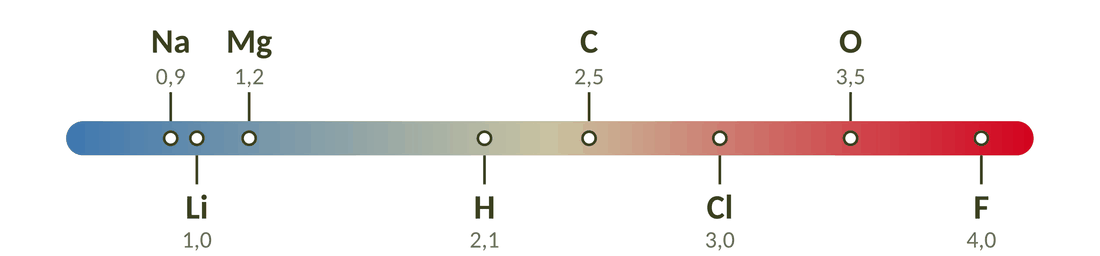
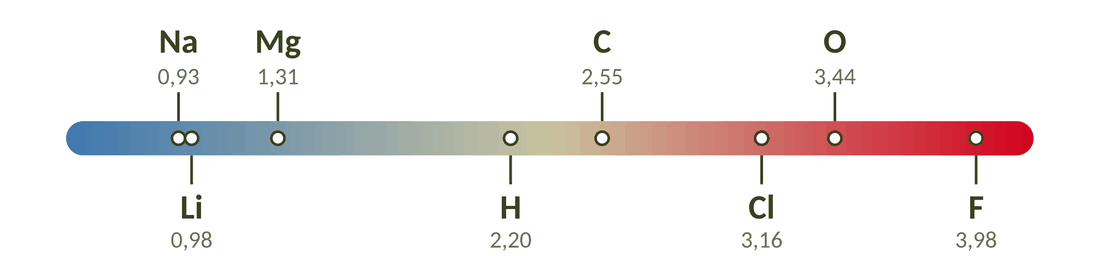
K1.2 Bindungen: Lernseite mit PSE-Folien (Metall/Nichtmetall, Außenelektronen, 3 Schritte, polar/unpolar), EN-Werte laut Trauner
Claude-Session: https://claude.ai/code/session_016xtSqSa7HSqYNztJjjnwtc

diff --git a/2ab-nawi/k1-2-bindungen/theorie.html b/2ab-nawi/k1-2-bindungen/theorie.html
@@ -84,7 +84,7 @@ tr:last-child th, tr:last-child td { border-bottom: 0; }
 </header>
 <nav class="toc" aria-label="Inhalt"><div><a href="#einstieg">Einstieg</a><a href="#teil1">Teil 1</a><a href="#teil2">Teil 2</a><a href="#teil3">Teil 3</a><a href="#teil4">Teil 4</a><a href="#teil5">Teil 5</a><a href="#ueberblick">Überblick</a><a href="#weiter">Aufgaben</a></div></nav>
 <main>
-<section class="part" id="einstieg"><div class="band"><div class="eyebrow">Einstieg</div><h2>Worum geht es?</h2></div><article class="slide" id="f2"><div class="slidehead"><h3>Vier Stoffe – vier Rätsel</h3></div><div class="tiles"><div class="tile"><h4>Kochsalz</h4><p>Warum zerspringt ein Salzkristall unter dem Hammer?</p></div><div class="tile"><h4>Schutzweste</h4><p>Warum hält eine Kunststofffaser Splitter auf?</p></div><div class="tile"><h4>Stahl</h4><p>Warum lässt sich Stahl schmieden und biegen?</p></div><div class="tile"><h4>Wasser</h4><p>Warum schwimmt Eis – und warum platzt die volle Feldflasche im Frost?</p></div></div></article><article class="slide" id="f3"><div class="slidehead"><h3>Das kannst du nach dieser Einheit</h3></div><div class="tiles"><div class="tile"><p>erklären, <strong>warum sich Atome verbinden</strong> – und wie Ionen-, Atom- und Metallbindung entstehen</p></div><div class="tile"><p>mit dem PSE <strong>bestimmen, welche Bindung</strong> in einem Stoff vorliegt</p></div><div class="tile"><p>aus der Bindung <strong>Eigenschaften ableiten</strong>: Warum Salz zerspringt, Stahl sich biegt und Eis schwimmt</p></div><div class="tile"><p>Bindungen <strong>im eigenen Körper und in deiner Ausrüstung</strong> wiederfinden: Nerven, Blut, DNA, Funktionsshirt</p></div></div></article></section><section class="part" id="teil1"><div class="band"><div class="eyebrow">Teil 1 · Buch S. 20</div><h2>Warum verbinden sich Atome?</h2></div><article class="slide" id="f5"><div class="slidehead"><h3>Ziel: der Edelgaszustand</h3><span class="pill">Buch S. 20</span></div><figure class="fig"><img src="img/s05_1.png" width="1100" height="370" loading="lazy" alt="Ziel: der Edelgaszustand"></figure><div class="tiles"><div class="tile"><p><strong>Oktettregel: </strong>Atome streben 8 Außenelektronen an (voll besetzte Außenschale). Dieser Zustand ist energiearm und besonders stabil.</p></div></div></article><article class="slide" id="f6"><div class="slidehead"><h3>Elektronegativität (EN)</h3><span class="pill">Buch S. 20</span></div><p>Maß dafür, wie stark ein Atom Elektronen an sich zieht – im PSE ablesbar.</p><figure class="fig"><img src="img/s06_2.png" width="1100" height="256" loading="lazy" alt="Elektronegativität (EN)"></figure><div class="tiles"><div class="tile"><p><strong>Metalle: </strong>wenige Außenelektronen → geben sie ab → elektropositiv</p></div></div><div class="tiles"><div class="tile"><p><strong>Nichtmetalle: </strong>viele Außenelektronen → nehmen auf → elektronegativ</p></div></div></article><article class="slide" id="f7"><div class="slidehead"><h3>Die drei Bindungsarten</h3><span class="pill">Buch S. 20</span></div><div class="tiles"><div class="tile"><h4>Ionenbindung</h4><p><strong>Metall + Nichtmetall</strong></p><p>↓</p><p><strong>Salze</strong></p><p>z. B. Kochsalz NaCl</p></div><div class="tile"><h4>Atombindung</h4><p><strong>Nichtmetall-Atome</strong></p><p>↓</p><p><strong>Moleküle</strong></p><p>z. B. H₂O, Cl₂</p></div><div class="tile"><h4>Metallbindung</h4><p><strong>Metall-Atome</strong></p><p>↓</p><p><strong>Metalle, Legierungen</strong></p><p>z. B. Eisen, Bronze</p></div></div><div class="tiles"><div class="tile"><p><strong>Faustregel ΔEN: </strong>über 1,7 → Ionenbindung · 0,4 bis 1,7 → polare Atombindung · unter 0,4 → unpolare Atombindung</p></div></div></article></section><section class="part" id="teil2"><div class="band"><div class="eyebrow">Teil 2 · Buch S. 21</div><h2>Die Ionenbindung</h2></div><article class="slide" id="f9"><div class="slidehead"><h3>So entsteht eine Ionenbindung</h3><span class="pill">Buch S. 21</span></div><figure class="fig"><img src="img/s09_3.png" width="1100" height="332" loading="lazy" alt="So entsteht eine Ionenbindung"></figure><figure class="fig anim"><img src="img/s09_4.gif" width="1100" height="440" loading="lazy" alt="So entsteht eine Ionenbindung"><figcaption>Animation</figcaption></figure><div class="tiles"><div class="tile"><h4>Metall gibt Elektronen ab</h4><p>→ positiv geladenes Kation</p></div></div><div class="tiles"><div class="tile"><h4>Nichtmetall nimmt Elektronen auf</h4><p>→ negativ geladenes Anion</p></div></div></article><article class="slide" id="f10"><div class="slidehead"><h3>Salze bilden Ionengitter</h3><span class="pill">Buch S. 21</span></div><figure class="fig"><img src="img/s10_5.png" width="1100" height="888" loading="lazy" alt="Salze bilden Ionengitter"></figure><div class="tiles"><div class="tile"><p>Plus und Minus ziehen sich an – in alle Richtungen</p><p>Nach außen <strong>elektrisch neutral</strong></p><p><strong>Hohe Schmelztemperatur</strong> (NaCl: 801 °C)</p><p><strong>Spröde</strong> – zerspringen unter dem Hammer</p><p><strong>Elektrolyte:</strong> leiten Strom nur gelöst oder geschmolzen</p></div></div></article><article class="slide" id="f11"><div class="slidehead"><h3>Warum sind Salze spröde?</h3><span class="pill">Buch S. 21</span></div><figure class="fig"><img src="img/s11_6.png" width="1100" height="370" loading="lazy" alt="Warum sind Salze spröde?"></figure><figure class="fig anim"><img src="img/s11_7.gif" width="1100" height="440" loading="lazy" alt="Warum sind Salze spröde?"><figcaption>Animation</figcaption></figure><div class="tiles"><div class="tile"><p>Ein Schlag verschiebt die Schichten um eine Position – plötzlich liegen gleiche Ladungen übereinander.</p></div></div></article><article class="slide" id="f12"><div class="slidehead"><h3>Salze im Einsatz</h3></div><div class="tiles"><div class="tile"><h4>Marsch &amp; Sport</h4><p>Schweiß enthält Ionen (Na⁺, K⁺, Cl⁻, Mg²⁺). Wer stundenlang schwitzt und nur Wasser trinkt, riskiert Natriummangel.</p></div><div class="tile"><h4>Ökologie</h4><p>Streusalz macht Straßen sicher. Aber Chlorid sickert in den Boden und schädigt Bäume und Gewässer.</p></div><div class="tile"><h4>Wirtschaft</h4><p>Salz war das »weiße Gold«. In Hallstatt wird seit rund 7000 Jahren Salz abgebaut.</p></div></div></article><article class="slide" id="f13"><div class="slidehead"><h3>Salze im Körper</h3><span class="pill">Buch S. 21</span></div><div class="tiles"><div class="tile"><h4>Nerven</h4><p>Jedes Nervensignal beruht auf Na⁺- und K⁺-Ionen, die durch die Zellmembran strömen – auch der Befehl an den Abzugsfinger.</p></div><div class="tile"><h4>Knochen</h4><p>Rund zwei Drittel des Knochens sind ein Ionengitter aus Ca²⁺ und Phosphat – das macht ihn hart. Eiweißfasern machen ihn elastisch.</p></div><div class="tile"><h4>Sanitäter</h4><p>Infusion mit 0,9 % Kochsalzlösung: gleich viel Salz wie im Blut (»isotonisch«). Isotonische Sportgetränke folgen demselben Prinzip.</p></div></div></article></section><section class="part" id="teil3"><div class="band"><div class="eyebrow">Teil 3 · Buch S. 22–24</div><h2>Die Atombindung</h2></div><article class="slide" id="f15"><div class="slidehead"><h3>Atome teilen Elektronen</h3><span class="pill">Buch S. 22</span></div><div class="tiles"><div class="tile"><h4>Bindung zwischen Nichtmetallen</h4><p>Zwei Atome bilden ein <strong>gemeinsames Elektronenpaar</strong></p><p>Beide erreichen so 8 Außenelektronen</p><p>Es entsteht ein <strong>Molekül</strong></p><p>Beispiele: H₂, Cl₂, H₂O, NH₃, CH₄</p></div></div><figure class="fig"><img src="img/s15_8.png" width="1100" height="648" loading="lazy" alt="Atome teilen Elektronen"></figure></article><article class="slide" id="f16"><div class="slidehead"><h3>Unpolar oder polar?</h3><span class="pill">Buch S. 22</span></div><div class="tiles"><div class="tile"><h4>Unpolar</h4><p>gleiche Atome: Cl₂, H₂, N₂</p><p>gleiche EN → Ladung symmetrisch</p><p>in Wasser schwer löslich (hydrophob)</p></div></div><figure class="fig"><img src="img/s16_9.png" width="1100" height="687" loading="lazy" alt="Unpolar oder polar?"></figure><div class="tiles"><div class="tile"><h4>Polar</h4><p>verschiedene Atome: HCl, H₂O, NH₃</p><p>Teilladungen δ+ und δ–</p><p>in Wasser löslich (hydrophil)</p></div></div></article><article class="slide" id="f17"><div class="slidehead"><h3>Wasser ist ein Dipol</h3><span class="pill">Buch S. 23</span></div><figure class="fig"><img src="img/s17_10.png" width="1100" height="342" loading="lazy" alt="Wasser ist ein Dipol"></figure><div class="tiles"><div class="tile"><p><strong>Dipol: </strong>Molekül mit einer Plus- und einer Minus-Seite. Ob eines entsteht, hängt von den Teilladungen und von der Form ab.</p></div></div></article><article class="slide" id="f18"><div class="slidehead"><h3>Exkurs: σ- und π-Bindungen</h3><span class="tag">OPTIONAL</span><span class="pill">Buch S. 23–24</span></div><figure class="fig"><img src="img/s18_11.png" width="1100" height="342" loading="lazy" alt="Exkurs: σ- und π-Bindungen"></figure><div class="tiles"><div class="tile"><h4>Einfachbindung</h4><p><strong>1 σ   </strong>H–H</p></div></div><div class="tiles"><div class="tile"><h4>Doppelbindung</h4><p><strong>1 σ + 1 π   </strong>O=O</p></div></div><div class="tiles"><div class="tile"><h4>Dreifachbindung</h4><p><strong>1 σ + 2 π   </strong>N≡N</p></div></div></article></section><section class="part" id="teil4"><div class="band"><div class="eyebrow">Teil 4 · Buch S. 25</div><h2>Die Metallbindung</h2></div><article class="slide" id="f20"><div class="slidehead"><h3>Das Elektronengas</h3><span class="pill">Buch S. 25</span></div><figure class="fig"><img src="img/s20_12.png" width="1100" height="815" loading="lazy" alt="Das Elektronengas"></figure><figure class="fig anim"><img src="img/s20_13.gif" width="928" height="688" loading="lazy" alt="Das Elektronengas"><figcaption>Animation</figcaption></figure><div class="tiles"><div class="tile"><p>Metallatome geben ihre wenigen Außenelektronen ab</p><p>Die <strong>Kationen</strong> bilden ein dichtes Metallgitter</p><p>Die Elektronen bewegen sich frei: <strong>Elektronengas</strong></p><p>Das Elektronengas hält das Gitter zusammen</p></div></div></article><article class="slide" id="f21"><div class="slidehead"><h3>Was Metalle können</h3><span class="pill">Buch S. 25</span></div><div class="tiles"><div class="tile"><h4>Hoher Schmelzpunkt</h4><p>Das Gitter ist sehr stabil – Eisen schmilzt erst bei 1538 °C.</p></div><div class="tile"><h4>Elektrische Leiter</h4><p>Freie Elektronen tragen den Strom – Kupfer in Kabeln und Funkgeräten.</p></div><div class="tile"><h4>Verformbar</h4><p>Schichten gleiten übereinander, die Anziehung bleibt – Schmieden, Biegen.</p></div><div class="tile"><h4>Legierungen</h4><p>Stahl = Eisen + Kohlenstoff · Bronze = Kupfer + Zinn · Messing = Kupfer + Zink</p></div></div></article><article class="slide" id="f22"><div class="slidehead"><h3>Metalle im Körper – aber als Ionen</h3><span class="pill">Buch S. 25</span></div><div class="tiles"><div class="tile"><h4>Eisen im Blut</h4><p>Fe²⁺ im Hämoglobin der roten Blutkörperchen bindet den Sauerstoff. Eisenmangel heißt: weniger Sauerstoff im Muskel, schlechtere Ausdauer.</p></div><div class="tile"><h4>Magnesium im Blatt</h4><p>Mg²⁺ sitzt im Zentrum jedes Chlorophyll-Moleküls. Ohne Magnesium keine Photosynthese – und kein Sauerstoff zum Atmen.</p></div></div><div class="tiles"><div class="tile"><p><strong>Merke: </strong>Im Körper gibt es kein Elektronengas. Metalle liegen dort als <strong>Ionen</strong> vor – sie haben ihre Außenelektronen abgegeben (Fe²⁺, Mg²⁺, Ca²⁺, Na⁺).</p></div></div></article></section><section class="part" id="teil5"><div class="band"><div class="eyebrow">Teil 5 · Buch S. 26–27</div><h2>Zwischenmolekulare Kräfte</h2></div><article class="slide" id="f24"><div class="slidehead"><h3>Innerhalb und zwischen Molekülen</h3><span class="pill">Buch S. 26</span></div><figure class="fig"><img src="img/s24_14.png" width="1100" height="660" loading="lazy" alt="Innerhalb und zwischen Molekülen"></figure><div class="tiles"><div class="tile"><h4>Atombindung im Molekül</h4><p>sehr stark</p></div></div><div class="tiles"><div class="tile"><h4>Kraft zwischen Molekülen</h4><p>viel schwächer</p></div></div><div class="tiles"><div class="tile"><h4>Sie bestimmen …</h4><p>Schmelztemperatur</p><p>Siedetemperatur</p><p>Löslichkeit</p></div></div></article><article class="slide" id="f25"><div class="slidehead"><h3>Wasserstoffbrücken</h3><span class="pill">Buch S. 26</span></div><figure class="fig"><img src="img/s25_15.png" width="1100" height="806" loading="lazy" alt="Wasserstoffbrücken"></figure><div class="tiles"><div class="tile"><h4>Entstehen zwischen Dipolen</h4><p>Bedingung: H ist an <strong>O, N oder F</strong> gebunden</p><p>Das δ+ H zieht das δ– O des Nachbarn an</p><p>Über 10-mal schwächer als eine Atombindung</p></div></div></article><article class="slide" id="f26"><div class="slidehead"><h3>Ohne Wasserstoffbrücken kein Leben</h3><span class="pill">Buch S. 26</span></div><div class="tiles"><div class="tile"><h4>100 °C</h4><p>Siedetemperatur von Wasser – das viel größere Hexan siedet schon bei 69 °C.</p></div><div class="tile"><h4>0,92</h4><p>Dichte von Eis in g/cm³ – leichter als Wasser (1,00). Der Teich friert von oben zu, Fische überleben.</p></div><div class="tile"><h4>Haut</h4><p>Oberflächenspannung: Wasserläufer laufen über das Wasser, eine Büroklammer kann schwimmen.</p></div></div></article><article class="slide" id="f27"><div class="slidehead"><h3>Wasserstoffbrücken im Körper</h3><span class="pill">Buch S. 26</span></div><div class="tiles"><div class="tile"><h4>DNA</h4><p>Die zwei Stränge der DNA halten über Wasserstoffbrücken zwischen den Basen zusammen. Fest genug für die Erbinformation – locker genug, um sie wie einen Reißverschluss zu öffnen und zu kopieren.</p></div><div class="tile"><h4>Eiweiße und Hitze</h4><p>Wasserstoffbrücken halten Eiweiße in ihrer Form. Große Hitze bricht sie auf: Das Eiweiß verliert seine Form (Denaturierung). Darum wird das Ei beim Kochen fest – und darum ist ein Hitzschlag beim Marsch lebensgefährlich.</p></div></div></article><article class="slide" id="f28"><div class="slidehead"><h3>Wasserstoffbrücken im Einsatz</h3></div><div class="tiles"><div class="tile"><h4>Schnee essen?</h4><p>Lieber nicht! Beim Schmelzen werden Wasserstoffbrücken aufgebrochen. 1 kg Schnee kostet den Körper fast 500 kJ Wärme.</p></div><div class="tile"><h4>Schutzweste</h4><p>Aramidfasern in Splitterschutzweste und Helm: lange Molekülketten, durch Wasserstoffbrücken verbunden – extrem zugfest.</p></div><div class="tile"><h4>Frost</h4><p>Eis braucht rund 9 % mehr Platz als Wasser: Volle Flaschen platzen, Frost sprengt Gestein.</p></div></div></article><article class="slide" id="f29"><div class="slidehead"><h3>Van-der-Waals-Kräfte</h3><span class="pill">Buch S. 27</span></div><figure class="fig"><img src="img/s29_16.png" width="1100" height="313" loading="lazy" alt="Van-der-Waals-Kräfte"></figure><div class="tiles"><div class="tile"><p><strong>Je größer das Molekül, desto stärker die Van-der-Waals-Kräfte.</strong></p><p>Lang gestreckte Moleküle haften stärker als gleich schwere kugelförmige.</p></div></div></article><article class="slide" id="f30"><div class="slidehead"><h3>Längere Kette, höherer Siedepunkt</h3><span class="pill">Buch S. 27</span></div><div class="tiles"><div class="tile"><h4>Methan</h4><p>CH₄</p><p><strong>–162 °C</strong></p><p>Erdgas</p></div><div class="tile"><h4>Butan</h4><p>C₄H₁₀</p><p><strong>–1 °C</strong></p><p>Feuerzeug, Kocher</p></div><div class="tile"><h4>Octan</h4><p>C₈H₁₈</p><p><strong>126 °C</strong></p><p>Benzin</p></div><div class="tile"><h4>Paraffin</h4><p>C₂₀H₄₂ u. a.</p><p><strong>fest</strong></p><p>Kerzenwachs</p></div></div><p><strong>längere Kette → stärkere Van-der-Waals-Kräfte → höhere Siedetemperatur</strong></p><div class="tiles"><div class="tile"><p><strong>Gecko: </strong>Millionen feinster Härchen haften über Van-der-Waals-Kräfte sogar an Glas.</p></div></div></article><article class="slide" id="f31"><div class="slidehead"><h3>Ähnliches löst sich in Ähnlichem</h3></div><div class="tiles"><div class="tile"><h4>polar + polar</h4><p>Salz und Zucker lösen sich in Wasser.</p></div></div><div class="tiles"><div class="tile"><h4>unpolar + unpolar</h4><p>Fett löst sich in Benzin, Öl mischt sich mit Öl.</p></div></div><div class="tiles"><div class="tile"><h4>polar + unpolar</h4><p>mischen sich nicht: Öl schwimmt auf Wasser.</p></div><div class="tile"><h4>Ökologie: Ölunfall</h4><p>Öl bildet einen Film auf dem Wasser – er hält Sauerstoff ab und verklebt Federn und Kiemen.</p></div></div></article><article class="slide" id="f32"><div class="slidehead"><h3>Nass oder trocken? Funktionsbekleidung</h3><span class="pill">Buch S. 26–27</span></div><div class="tiles"><div class="tile"><h4>Baumwolle</h4><p>viele polare OH-Gruppen</p><p>bindet Wasser über Wasserstoffbrücken</p><p>saugt sich voll, trocknet langsam, kühlt aus</p></div></div><div class="tiles"><div class="tile"><h4>Polyester (Funktionsshirt)</h4><p>kaum polar – wassermeidend</p><p>Schweiß wird nach außen geleitet</p><p>bleibt fast trocken, trocknet schnell</p></div><div class="tile"><h4>Imprägnierung: Zelt, Regenjacke, Stiefel</h4><p>Eine unpolare Schicht (Wachs, Silikon) stößt das polare Wasser ab – die Tropfen bleiben rund und perlen ab.</p></div></div></article></section><section class="part" id="ueberblick"><div class="band"><div class="eyebrow">Überblick</div><h2>Zusammenfassung</h2></div><article class="slide" id="f33"><div class="slidehead"><h3>Alles auf einen Blick</h3></div><div class="tablewrap"><table><thead><tr><th>Bindung</th><th>Wo / was?</th><th>Stärke</th></tr></thead><tbody><tr><th scope=row>Metallbindung</th><td>Kationen + Elektronengas</td><td>echt · sehr stark</td></tr><tr><th scope=row>Ionenbindung</th><td>Ionengitter (Salze)</td><td>echt · stark</td></tr><tr><th scope=row>Atombindung</th><td>Moleküle</td><td>echt · stark</td></tr><tr><th scope=row>Wasserstoffbrücken</th><td>H an O, N, F</td><td>zwischen Molekülen · schwach</td></tr><tr><th scope=row>Van-der-Waals-Kräfte</th><td>alle Moleküle</td><td>zwischen Molekülen · sehr schwach</td></tr></tbody></table></div></article><article class="slide" id="f34"><div class="slidehead"><h3>Fachbegriffe (1/2)</h3></div><div class="tablewrap"><table><thead><tr><th>Begriff</th><th>Bedeutung</th></tr></thead><tbody><tr><th scope=row>Edelgaskonfiguration</th><td>voll besetzte Außenschale – energiearm und stabil</td></tr><tr><th scope=row>Oktettregel</th><td>Atome streben 8 Außenelektronen an</td></tr><tr><th scope=row>Elektronegativität (EN)</th><td>wie stark ein Atom Elektronen anzieht</td></tr><tr><th scope=row>Ion</th><td>geladenes Teilchen: Atom hat e⁻ abgegeben oder aufgenommen</td></tr><tr><th scope=row>Kation / Anion</th><td>positiv geladenes Ion / negativ geladenes Ion</td></tr><tr><th scope=row>Ionengitter</th><td>regelmäßige Anordnung von Kationen und Anionen im Salz</td></tr><tr><th scope=row>Elektrolyt</th><td>Stoff, der gelöst oder geschmolzen Strom leitet</td></tr><tr><th scope=row>Molekül</th><td>Teilchen aus Atomen, die durch Atombindungen verbunden sind</td></tr><tr><th scope=row>Elektronenpaar</th><td>zwei Elektronen, die zwei Atome gemeinsam nutzen</td></tr><tr><th scope=row>polar / unpolar</th><td>Ladung im Molekül ungleich / gleich verteilt</td></tr></tbody></table></div></article><article class="slide" id="f35"><div class="slidehead"><h3>Fachbegriffe (2/2)</h3></div><div class="tablewrap"><table><thead><tr><th>Begriff</th><th>Bedeutung</th></tr></thead><tbody><tr><th scope=row>Dipol</th><td>Molekül mit einer Plus- und einer Minus-Seite</td></tr><tr><th scope=row>δ+ / δ–</th><td>Teilladung (»delta«): schwach positiv / schwach negativ</td></tr><tr><th scope=row>Elektronengas</th><td>frei bewegliche Elektronen zwischen Metall-Kationen</td></tr><tr><th scope=row>Legierung</th><td>Gemisch aus Metallen (z. B. Bronze = Kupfer + Zinn)</td></tr><tr><th scope=row>Wasserstoffbrücke</th><td>Anziehung: δ+ H an δ– O, N oder F des Nachbarmoleküls</td></tr><tr><th scope=row>Van-der-Waals-Kraft</th><td>schwache Anziehung durch kurzzeitige Dipole</td></tr><tr><th scope=row>hydrophil / hydrophob</th><td>wasserliebend (löslich) / wassermeidend (schwer löslich)</td></tr><tr><th scope=row>Dichteanomalie</th><td>Eis ist leichter als flüssiges Wasser – es schwimmt</td></tr><tr><th scope=row>isotonisch</th><td>gleiche Salzkonzentration wie im Blut (z. B. 0,9 % Kochsalzlösung)</td></tr><tr><th scope=row>Denaturierung</th><td>Eiweiß verliert durch Hitze seine Form (H-Brücken brechen)</td></tr></tbody></table></div></article></section>
+<section class="part" id="einstieg"><div class="band"><div class="eyebrow">Einstieg</div><h2>Worum geht es?</h2></div><article class="slide" id="f2"><div class="slidehead"><h3>Vier Stoffe – vier Rätsel</h3></div><div class="tiles"><div class="tile"><h4>Kochsalz</h4><p>Warum zerspringt ein Salzkristall unter dem Hammer?</p></div><div class="tile"><h4>Schutzweste</h4><p>Warum hält eine Kunststofffaser Splitter auf?</p></div><div class="tile"><h4>Stahl</h4><p>Warum lässt sich Stahl schmieden und biegen?</p></div><div class="tile"><h4>Wasser</h4><p>Warum schwimmt Eis – und warum platzt die volle Feldflasche im Frost?</p></div></div></article><article class="slide" id="f3"><div class="slidehead"><h3>Das kannst du nach dieser Einheit</h3></div><div class="tiles"><div class="tile"><p>erklären, <strong>warum sich Atome verbinden</strong> – und wie Ionen-, Atom- und Metallbindung entstehen</p></div><div class="tile"><p>mit dem PSE <strong>bestimmen, welche Bindung</strong> in einem Stoff vorliegt</p></div><div class="tile"><p>aus der Bindung <strong>Eigenschaften ableiten</strong>: Warum Salz zerspringt, Stahl sich biegt und Eis schwimmt</p></div><div class="tile"><p>Bindungen <strong>im eigenen Körper und in deiner Ausrüstung</strong> wiederfinden: Nerven, Blut, DNA, Funktionsshirt</p></div></div></article></section><section class="part" id="teil1"><div class="band"><div class="eyebrow">Teil 1 · Buch S. 20</div><h2>Warum verbinden sich Atome?</h2></div><article class="slide" id="f5"><div class="slidehead"><h3>Ziel: der Edelgaszustand</h3><span class="pill">Buch S. 20</span></div><figure class="fig"><img src="img/s05_1.png" width="1100" height="370" loading="lazy" alt="Ziel: der Edelgaszustand"></figure><div class="tiles"><div class="tile"><p><strong>Oktettregel: </strong>Atome streben 8 Außenelektronen an (voll besetzte Außenschale). Dieser Zustand ist energiearm und besonders stabil.</p></div></div></article><article class="slide" id="f6"><div class="slidehead"><h3>Elektronegativität (EN)</h3><span class="pill">Buch S. 20</span></div><p>Maß dafür, wie stark ein Atom Elektronen an sich zieht – im PSE ablesbar.</p><figure class="fig"><img src="img/s06_2.png" width="1100" height="256" loading="lazy" alt="Elektronegativität (EN)"></figure><div class="tiles"><div class="tile"><p><strong>Metalle: </strong>wenige Außenelektronen → geben sie ab → elektropositiv</p></div></div><div class="tiles"><div class="tile"><p><strong>Nichtmetalle: </strong>viele Außenelektronen → nehmen auf → elektronegativ</p></div></div></article><article class="slide" id="f7"><div class="slidehead"><h3>Metall oder Nichtmetall?</h3><span class="pill">PSE im Buch</span></div><div class="tiles"><div class="tile"><h4>I</h4><p><strong>H</strong></p></div><div class="tile"><h4>II</h4><p>4</p></div><div class="tile"><h4>III</h4><p>5</p></div><div class="tile"><h4>IV</h4><p>6</p></div><div class="tile"><h4>V</h4><p>7</p></div><div class="tile"><h4>VI</h4><p>8</p></div><div class="tile"><h4>VII</h4><p>9</p></div><div class="tile"><h4>VIII</h4><p><strong>He</strong></p></div></div><div class="tiles"><div class="tile"><h4>Metall</h4><p>Li, Na, Mg, Al</p></div><div class="tile"><h4>1</h4><p>3</p></div><div class="tile"><h4>2</h4><p>10</p></div></div><div class="tiles"><div class="tile"><h4>Halbmetall</h4><p>B, Si</p></div><div class="tile"><h4>Li</h4><p><strong>Na</strong></p></div><div class="tile"><h4>Be</h4><p><strong>Mg</strong></p></div><div class="tile"><h4>B</h4><p><strong>Al</strong></p></div><div class="tile"><h4>C</h4><p><strong>Si</strong></p></div><div class="tile"><h4>N</h4><p><strong>P</strong></p></div><div class="tile"><h4>O</h4><p><strong>S</strong></p></div><div class="tile"><h4>F</h4><p><strong>Cl</strong></p></div><div class="tile"><h4>Ne</h4><p><strong>Ar</strong></p></div></div><div class="tiles"><div class="tile"><h4>Nichtmetall</h4><p>C, N, O, Cl …</p></div><div class="tile"><h4>11</h4><p><strong>Merke: </strong>Links und unten Metalle, rechts oben Nichtmetalle. Die gelbe »Treppe« der Halbmetalle trennt sie.</p></div></div><p>12</p><p>13</p><p>14</p><p>15</p><p>16</p><p>17</p><p>18</p><div class="tiles"><div class="tile"><p><strong>Achtung H: </strong>steht links, ist aber grün – ein Nichtmetall! HCl ist darum keine Ionenbindung.</p></div></div></article><article class="slide" id="f8"><div class="slidehead"><h3>Wie viele Außenelektronen?</h3><span class="pill">Buch S. 20–21</span></div><div class="tiles"><div class="tile"><h4>I</h4><p><strong>H</strong></p></div><div class="tile"><h4>II</h4><p><strong>Be</strong></p></div><div class="tile"><h4>III</h4><p><strong>B</strong></p></div><div class="tile"><h4>IV</h4><p><strong>C</strong></p></div><div class="tile"><h4>V</h4><p><strong>N</strong></p></div><div class="tile"><h4>VI</h4><p><strong>O</strong></p></div><div class="tile"><h4>VII</h4><p><strong>F</strong></p></div><div class="tile"><h4>VIII</h4><p><strong>He</strong></p></div><div class="tile"><h4>1</h4><p><strong>Li</strong></p></div><div class="tile"><h4>2</h4><p><strong>Ne</strong></p></div><div class="tile"><h4>3</h4><p><strong>Na</strong></p></div><div class="tile"><h4>4</h4><p><strong>Mg</strong></p></div><div class="tile"><h4>5</h4><p><strong>Al</strong></p></div><div class="tile"><h4>6</h4><p><strong>Si</strong></p></div><div class="tile"><h4>7</h4><p><strong>P</strong></p></div><div class="tile"><h4>8</h4><p><strong>S</strong></p></div><div class="tile"><h4>9</h4><p><strong>Cl</strong></p></div><div class="tile"><h4>10</h4><p><strong>Ar</strong></p></div><div class="tile"><h4>11</h4><p><strong>1 e⁻</strong></p></div><div class="tile"><h4>12</h4><p><strong>2 e⁻</strong></p></div><div class="tile"><h4>13</h4><p><strong>3 e⁻</strong></p></div><div class="tile"><h4>14</h4><p><strong>4 e⁻</strong></p></div><div class="tile"><h4>15</h4><p><strong>5 e⁻</strong></p></div><div class="tile"><h4>16</h4><p><strong>6 e⁻</strong></p></div><div class="tile"><h4>17</h4><p><strong>7 e⁻</strong></p></div><div class="tile"><h4>18</h4><p><strong>8 e⁻</strong></p></div><div class="tile"><h4>Na⁺</h4><p><strong>I–III: wenige → abgeben</strong></p><p>positive Ionen (Kationen)</p></div></div><p><strong>Mg²⁺</strong></p><p><strong>Al³⁺</strong></p><p><strong>–</strong></p><div class="tiles"><div class="tile"><h4>N³⁻</h4><p><strong>V–VII: viele → aufnehmen</strong></p><p>negative Ionen (Anionen)</p></div></div><p><strong>O²⁻</strong></p><p><strong>Cl⁻</strong></p><div class="tiles"><div class="tile"><h4>–</h4><p><strong>VIII: voll</strong></p><p>Edelgas</p></div></div></article><article class="slide" id="f9"><div class="slidehead"><h3>Die drei Bindungsarten</h3><span class="pill">Buch S. 20</span></div><div class="tiles"><div class="tile"><h4>Ionenbindung</h4><p><strong>Metall + Nichtmetall</strong></p><p>↓</p><p><strong>Salze</strong></p><p>z. B. Kochsalz NaCl</p></div><div class="tile"><h4>Atombindung</h4><p><strong>Nichtmetall-Atome</strong></p><p>↓</p><p><strong>Moleküle</strong></p><p>z. B. H₂O, Cl₂</p></div><div class="tile"><h4>Metallbindung</h4><p><strong>Metall-Atome</strong></p><p>↓</p><p><strong>Metalle, Legierungen</strong></p><p>z. B. Eisen, Bronze</p></div></div><div class="tiles"><div class="tile"><p><strong>Faustregel ΔEN: </strong>über 1,7 → Ionenbindung · 0,4 bis 1,7 → polare Atombindung · unter 0,4 → unpolare Atombindung</p></div></div></article><article class="slide" id="f10"><div class="slidehead"><h3>In 3 Schritten zur Bindungsart</h3><span class="pill">Buch S. 20–22</span></div><div class="tiles"><div class="tile"><h4>1  Farbe im PSE ansehen</h4><p>Metall (blau) oder Nichtmetall (grün)?</p></div></div><div class="tiles"><div class="tile"><h4>2  beide blau</h4><p>→ Metallbindung</p></div></div><div class="tiles"><div class="tile"><h4>2  blau + grün</h4><p>→ Ionenbindung (Salz)</p></div></div><div class="tiles"><div class="tile"><h4>2  beide grün</h4><p>→ Atombindung (Molekül)</p></div></div><div class="tiles"><div class="tile"><h4>Beispiele</h4><p>NaCl: blau + grün → Ionenbindung</p><p>Fe: nur blau → Metallbindung</p><p>Cl₂: grün, gleich → unpolar · H₂O: grün, ΔEN 1,24 → polar</p></div></div><div class="tiles"><div class="tile"><h4>3  EN-Unterschied rechnen</h4><p>größere minus kleinere EN</p></div></div><div class="tiles"><div class="tile"><h4>unter 0,4</h4><p><strong>unpolar</strong></p></div></div><div class="tiles"><div class="tile"><h4>0,4 bis 1,7</h4><p><strong>polar δ+ δ–</strong></p></div></div></article></section><section class="part" id="teil2"><div class="band"><div class="eyebrow">Teil 2 · Buch S. 21</div><h2>Die Ionenbindung</h2></div><article class="slide" id="f12"><div class="slidehead"><h3>So entsteht eine Ionenbindung</h3><span class="pill">Buch S. 21</span></div><figure class="fig"><img src="img/s12_3.png" width="1100" height="332" loading="lazy" alt="So entsteht eine Ionenbindung"></figure><figure class="fig anim"><img src="img/s12_4.gif" width="1100" height="440" loading="lazy" alt="So entsteht eine Ionenbindung"><figcaption>Animation</figcaption></figure><div class="tiles"><div class="tile"><h4>Metall gibt Elektronen ab</h4><p>→ positiv geladenes Kation</p></div></div><div class="tiles"><div class="tile"><h4>Nichtmetall nimmt Elektronen auf</h4><p>→ negativ geladenes Anion</p></div></div></article><article class="slide" id="f13"><div class="slidehead"><h3>Salze bilden Ionengitter</h3><span class="pill">Buch S. 21</span></div><figure class="fig"><img src="img/s13_5.png" width="1100" height="888" loading="lazy" alt="Salze bilden Ionengitter"></figure><div class="tiles"><div class="tile"><p>Plus und Minus ziehen sich an – in alle Richtungen</p><p>Nach außen <strong>elektrisch neutral</strong></p><p><strong>Hohe Schmelztemperatur</strong> (NaCl: 801 °C)</p><p><strong>Spröde</strong> – zerspringen unter dem Hammer</p><p><strong>Elektrolyte:</strong> leiten Strom nur gelöst oder geschmolzen</p></div></div></article><article class="slide" id="f14"><div class="slidehead"><h3>Warum sind Salze spröde?</h3><span class="pill">Buch S. 21</span></div><figure class="fig"><img src="img/s14_6.png" width="1100" height="370" loading="lazy" alt="Warum sind Salze spröde?"></figure><figure class="fig anim"><img src="img/s14_7.gif" width="1100" height="440" loading="lazy" alt="Warum sind Salze spröde?"><figcaption>Animation</figcaption></figure><div class="tiles"><div class="tile"><p>Ein Schlag verschiebt die Schichten um eine Position – plötzlich liegen gleiche Ladungen übereinander.</p></div></div></article><article class="slide" id="f15"><div class="slidehead"><h3>Salze im Einsatz</h3></div><div class="tiles"><div class="tile"><h4>Marsch &amp; Sport</h4><p>Schweiß enthält Ionen (Na⁺, K⁺, Cl⁻, Mg²⁺). Wer stundenlang schwitzt und nur Wasser trinkt, riskiert Natriummangel.</p></div><div class="tile"><h4>Ökologie</h4><p>Streusalz macht Straßen sicher. Aber Chlorid sickert in den Boden und schädigt Bäume und Gewässer.</p></div><div class="tile"><h4>Wirtschaft</h4><p>Salz war das »weiße Gold«. In Hallstatt wird seit rund 7000 Jahren Salz abgebaut.</p></div></div></article><article class="slide" id="f16"><div class="slidehead"><h3>Salze im Körper</h3><span class="pill">Buch S. 21</span></div><div class="tiles"><div class="tile"><h4>Nerven</h4><p>Jedes Nervensignal beruht auf Na⁺- und K⁺-Ionen, die durch die Zellmembran strömen – auch der Befehl an den Abzugsfinger.</p></div><div class="tile"><h4>Knochen</h4><p>Rund zwei Drittel des Knochens sind ein Ionengitter aus Ca²⁺ und Phosphat – das macht ihn hart. Eiweißfasern machen ihn elastisch.</p></div><div class="tile"><h4>Sanitäter</h4><p>Infusion mit 0,9 % Kochsalzlösung: gleich viel Salz wie im Blut (»isotonisch«). Isotonische Sportgetränke folgen demselben Prinzip.</p></div></div></article></section><section class="part" id="teil3"><div class="band"><div class="eyebrow">Teil 3 · Buch S. 22–24</div><h2>Die Atombindung</h2></div><article class="slide" id="f18"><div class="slidehead"><h3>Atome teilen Elektronen</h3><span class="pill">Buch S. 22</span></div><div class="tiles"><div class="tile"><h4>Bindung zwischen Nichtmetallen</h4><p>Zwei Atome bilden ein <strong>gemeinsames Elektronenpaar</strong></p><p>Beide erreichen so 8 Außenelektronen</p><p>Es entsteht ein <strong>Molekül</strong></p><p>Beispiele: H₂, Cl₂, H₂O, NH₃, CH₄</p></div></div><figure class="fig"><img src="img/s18_8.png" width="1100" height="648" loading="lazy" alt="Atome teilen Elektronen"></figure></article><article class="slide" id="f19"><div class="slidehead"><h3>Unpolar oder polar?</h3><span class="pill">Buch S. 22</span></div><div class="tiles"><div class="tile"><h4>Unpolar</h4><p>gleiche Atome: Cl₂, H₂, N₂</p><p>gleiche EN → Ladung symmetrisch</p><p>in Wasser schwer löslich (hydrophob)</p></div></div><figure class="fig"><img src="img/s19_9.png" width="1100" height="687" loading="lazy" alt="Unpolar oder polar?"></figure><div class="tiles"><div class="tile"><h4>Polar</h4><p>verschiedene Atome: HCl, H₂O, NH₃</p><p>Teilladungen δ+ und δ–</p><p>in Wasser löslich (hydrophil)</p></div></div></article><article class="slide" id="f20"><div class="slidehead"><h3>Polar oder unpolar? Rechne mit dem PSE</h3><span class="pill">Buch S. 22</span></div><div class="tiles"><div class="tile"><p><strong>unpolar</strong></p></div></div><div class="tiles"><div class="tile"><p><strong>polar</strong></p></div></div><div class="tiles"><div class="tile"><p><strong>Ionen</strong></p></div></div><p>0,0</p><p>0,4</p><p>1,7</p><p>3,2</p><div class="tablewrap"><table><thead><tr><th>Bindung</th><th>EN-Werte (PSE)</th><th>ΔEN</th><th>Ergebnis</th></tr></thead><tbody><tr><th scope=row>Cl–Cl</th><td>3,16 – 3,16</td><td>0</td><td>unpolar</td></tr><tr><th scope=row>C–H</th><td>2,55 – 2,20</td><td>0,35</td><td>unpolar</td></tr><tr><th scope=row>H–Cl</th><td>3,16 – 2,20</td><td>0,96</td><td>polar, δ– am Cl</td></tr><tr><th scope=row>O–H</th><td>3,44 – 2,20</td><td>1,24</td><td>polar, δ– am O</td></tr></tbody></table></div><p>ΔEN = Unterschied der EN</p><div class="tiles"><div class="tile"><p><strong>δ– sitzt beim Atom mit der größeren EN. </strong>Die EN steigt im PSE nach rechts und nach oben – Fluor ist Spitze.</p></div></div></article><article class="slide" id="f21"><div class="slidehead"><h3>Wasser ist ein Dipol</h3><span class="pill">Buch S. 23</span></div><figure class="fig"><img src="img/s21_10.png" width="1100" height="342" loading="lazy" alt="Wasser ist ein Dipol"></figure><div class="tiles"><div class="tile"><p><strong>Dipol: </strong>Molekül mit einer Plus- und einer Minus-Seite. Ob eines entsteht, hängt von den Teilladungen und von der Form ab.</p></div></div></article><article class="slide" id="f22"><div class="slidehead"><h3>Exkurs: σ- und π-Bindungen</h3><span class="tag">OPTIONAL</span><span class="pill">Buch S. 23–24</span></div><figure class="fig"><img src="img/s22_11.png" width="1100" height="342" loading="lazy" alt="Exkurs: σ- und π-Bindungen"></figure><div class="tiles"><div class="tile"><h4>Einfachbindung</h4><p><strong>1 σ   </strong>H–H</p></div></div><div class="tiles"><div class="tile"><h4>Doppelbindung</h4><p><strong>1 σ + 1 π   </strong>O=O</p></div></div><div class="tiles"><div class="tile"><h4>Dreifachbindung</h4><p><strong>1 σ + 2 π   </strong>N≡N</p></div></div></article></section><section class="part" id="teil4"><div class="band"><div class="eyebrow">Teil 4 · Buch S. 25</div><h2>Die Metallbindung</h2></div><article class="slide" id="f24"><div class="slidehead"><h3>Das Elektronengas</h3><span class="pill">Buch S. 25</span></div><figure class="fig"><img src="img/s24_12.png" width="1100" height="815" loading="lazy" alt="Das Elektronengas"></figure><figure class="fig anim"><img src="img/s24_13.gif" width="928" height="688" loading="lazy" alt="Das Elektronengas"><figcaption>Animation</figcaption></figure><div class="tiles"><div class="tile"><p>Metallatome geben ihre wenigen Außenelektronen ab</p><p>Die <strong>Kationen</strong> bilden ein dichtes Metallgitter</p><p>Die Elektronen bewegen sich frei: <strong>Elektronengas</strong></p><p>Das Elektronengas hält das Gitter zusammen</p></div></div></article><article class="slide" id="f25"><div class="slidehead"><h3>Was Metalle können</h3><span class="pill">Buch S. 25</span></div><div class="tiles"><div class="tile"><h4>Hoher Schmelzpunkt</h4><p>Das Gitter ist sehr stabil – Eisen schmilzt erst bei 1538 °C.</p></div><div class="tile"><h4>Elektrische Leiter</h4><p>Freie Elektronen tragen den Strom – Kupfer in Kabeln und Funkgeräten.</p></div><div class="tile"><h4>Verformbar</h4><p>Schichten gleiten übereinander, die Anziehung bleibt – Schmieden, Biegen.</p></div><div class="tile"><h4>Legierungen</h4><p>Stahl = Eisen + Kohlenstoff · Bronze = Kupfer + Zinn · Messing = Kupfer + Zink</p></div></div></article><article class="slide" id="f26"><div class="slidehead"><h3>Metalle im Körper – aber als Ionen</h3><span class="pill">Buch S. 25</span></div><div class="tiles"><div class="tile"><h4>Eisen im Blut</h4><p>Fe²⁺ im Hämoglobin der roten Blutkörperchen bindet den Sauerstoff. Eisenmangel heißt: weniger Sauerstoff im Muskel, schlechtere Ausdauer.</p></div><div class="tile"><h4>Magnesium im Blatt</h4><p>Mg²⁺ sitzt im Zentrum jedes Chlorophyll-Moleküls. Ohne Magnesium keine Photosynthese – und kein Sauerstoff zum Atmen.</p></div></div><div class="tiles"><div class="tile"><p><strong>Merke: </strong>Im Körper gibt es kein Elektronengas. Metalle liegen dort als <strong>Ionen</strong> vor – sie haben ihre Außenelektronen abgegeben (Fe²⁺, Mg²⁺, Ca²⁺, Na⁺).</p></div></div></article></section><section class="part" id="teil5"><div class="band"><div class="eyebrow">Teil 5 · Buch S. 26–27</div><h2>Zwischenmolekulare Kräfte</h2></div><article class="slide" id="f28"><div class="slidehead"><h3>Innerhalb und zwischen Molekülen</h3><span class="pill">Buch S. 26</span></div><figure class="fig"><img src="img/s28_14.png" width="1100" height="660" loading="lazy" alt="Innerhalb und zwischen Molekülen"></figure><div class="tiles"><div class="tile"><h4>Atombindung im Molekül</h4><p>sehr stark</p></div></div><div class="tiles"><div class="tile"><h4>Kraft zwischen Molekülen</h4><p>viel schwächer</p></div></div><div class="tiles"><div class="tile"><h4>Sie bestimmen …</h4><p>Schmelztemperatur</p><p>Siedetemperatur</p><p>Löslichkeit</p></div></div></article><article class="slide" id="f29"><div class="slidehead"><h3>Wasserstoffbrücken</h3><span class="pill">Buch S. 26</span></div><figure class="fig"><img src="img/s29_15.png" width="1100" height="806" loading="lazy" alt="Wasserstoffbrücken"></figure><div class="tiles"><div class="tile"><h4>Entstehen zwischen Dipolen</h4><p>Bedingung: H ist an <strong>O, N oder F</strong> gebunden</p><p>Das δ+ H zieht das δ– O des Nachbarn an</p><p>Über 10-mal schwächer als eine Atombindung</p></div></div></article><article class="slide" id="f30"><div class="slidehead"><h3>Ohne Wasserstoffbrücken kein Leben</h3><span class="pill">Buch S. 26</span></div><div class="tiles"><div class="tile"><h4>100 °C</h4><p>Siedetemperatur von Wasser – das viel größere Hexan siedet schon bei 69 °C.</p></div><div class="tile"><h4>0,92</h4><p>Dichte von Eis in g/cm³ – leichter als Wasser (1,00). Der Teich friert von oben zu, Fische überleben.</p></div><div class="tile"><h4>Haut</h4><p>Oberflächenspannung: Wasserläufer laufen über das Wasser, eine Büroklammer kann schwimmen.</p></div></div></article><article class="slide" id="f31"><div class="slidehead"><h3>Wasserstoffbrücken im Körper</h3><span class="pill">Buch S. 26</span></div><div class="tiles"><div class="tile"><h4>DNA</h4><p>Die zwei Stränge der DNA halten über Wasserstoffbrücken zwischen den Basen zusammen. Fest genug für die Erbinformation – locker genug, um sie wie einen Reißverschluss zu öffnen und zu kopieren.</p></div><div class="tile"><h4>Eiweiße und Hitze</h4><p>Wasserstoffbrücken halten Eiweiße in ihrer Form. Große Hitze bricht sie auf: Das Eiweiß verliert seine Form (Denaturierung). Darum wird das Ei beim Kochen fest – und darum ist ein Hitzschlag beim Marsch lebensgefährlich.</p></div></div></article><article class="slide" id="f32"><div class="slidehead"><h3>Wasserstoffbrücken im Einsatz</h3></div><div class="tiles"><div class="tile"><h4>Schnee essen?</h4><p>Lieber nicht! Beim Schmelzen werden Wasserstoffbrücken aufgebrochen. 1 kg Schnee kostet den Körper fast 500 kJ Wärme.</p></div><div class="tile"><h4>Schutzweste</h4><p>Aramidfasern in Splitterschutzweste und Helm: lange Molekülketten, durch Wasserstoffbrücken verbunden – extrem zugfest.</p></div><div class="tile"><h4>Frost</h4><p>Eis braucht rund 9 % mehr Platz als Wasser: Volle Flaschen platzen, Frost sprengt Gestein.</p></div></div></article></section><section class="part" id="ueberblick"><div class="band"><div class="eyebrow">Überblick</div><h2>Zusammenfassung</h2></div><article class="slide" id="f33"><div class="slidehead"><h3>Van-der-Waals-Kräfte</h3><span class="pill">Buch S. 27</span></div><div class="tablewrap"><table><thead><tr><th>Bindung</th><th>Wo / was?</th><th>Stärke</th></tr></thead><tbody><tr><th scope=row>Metallbindung</th><td>Kationen + Elektronengas</td><td>echt · sehr stark</td></tr><tr><th scope=row>Ionenbindung</th><td>Ionengitter (Salze)</td><td>echt · stark</td></tr><tr><th scope=row>Atombindung</th><td>Moleküle</td><td>echt · stark</td></tr><tr><th scope=row>Wasserstoffbrücken</th><td>H an O, N, F</td><td>zwischen Molekülen · schwach</td></tr><tr><th scope=row>Van-der-Waals-Kräfte</th><td>alle Moleküle</td><td>zwischen Molekülen · sehr schwach</td></tr></tbody></table></div></article><article class="slide" id="f34"><div class="slidehead"><h3>Längere Kette, höherer Siedepunkt</h3><span class="pill">Buch S. 27</span></div><div class="tiles"><div class="tile"><h4>Methan</h4><p>CH₄</p><p><strong>–162 °C</strong></p><p>Erdgas</p></div><div class="tile"><h4>Butan</h4><p>C₄H₁₀</p><p><strong>–1 °C</strong></p><p>Feuerzeug, Kocher</p></div><div class="tile"><h4>Octan</h4><p>C₈H₁₈</p><p><strong>126 °C</strong></p><p>Benzin</p></div><div class="tile"><h4>Paraffin</h4><p>C₂₀H₄₂ u. a.</p><p><strong>fest</strong></p><p>Kerzenwachs</p></div></div><p><strong>längere Kette → stärkere Van-der-Waals-Kräfte → höhere Siedetemperatur</strong></p><div class="tiles"><div class="tile"><p><strong>Gecko: </strong>Millionen feinster Härchen haften über Van-der-Waals-Kräfte sogar an Glas.</p></div></div></article><article class="slide" id="f35"><div class="slidehead"><h3>Ähnliches löst sich in Ähnlichem</h3></div><div class="tiles"><div class="tile"><h4>polar + polar</h4><p>Salz und Zucker lösen sich in Wasser.</p></div></div><div class="tiles"><div class="tile"><h4>unpolar + unpolar</h4><p>Fett löst sich in Benzin, Öl mischt sich mit Öl.</p></div></div><div class="tiles"><div class="tile"><h4>polar + unpolar</h4><p>mischen sich nicht: Öl schwimmt auf Wasser.</p></div><div class="tile"><h4>Ökologie: Ölunfall</h4><p>Öl bildet einen Film auf dem Wasser – er hält Sauerstoff ab und verklebt Federn und Kiemen.</p></div></div></article></section>
 <section class="next" id="weiter">
   <div class="eyebrow">Weiter geht's</div>
   <h2>Jetzt bist du dran</h2>
